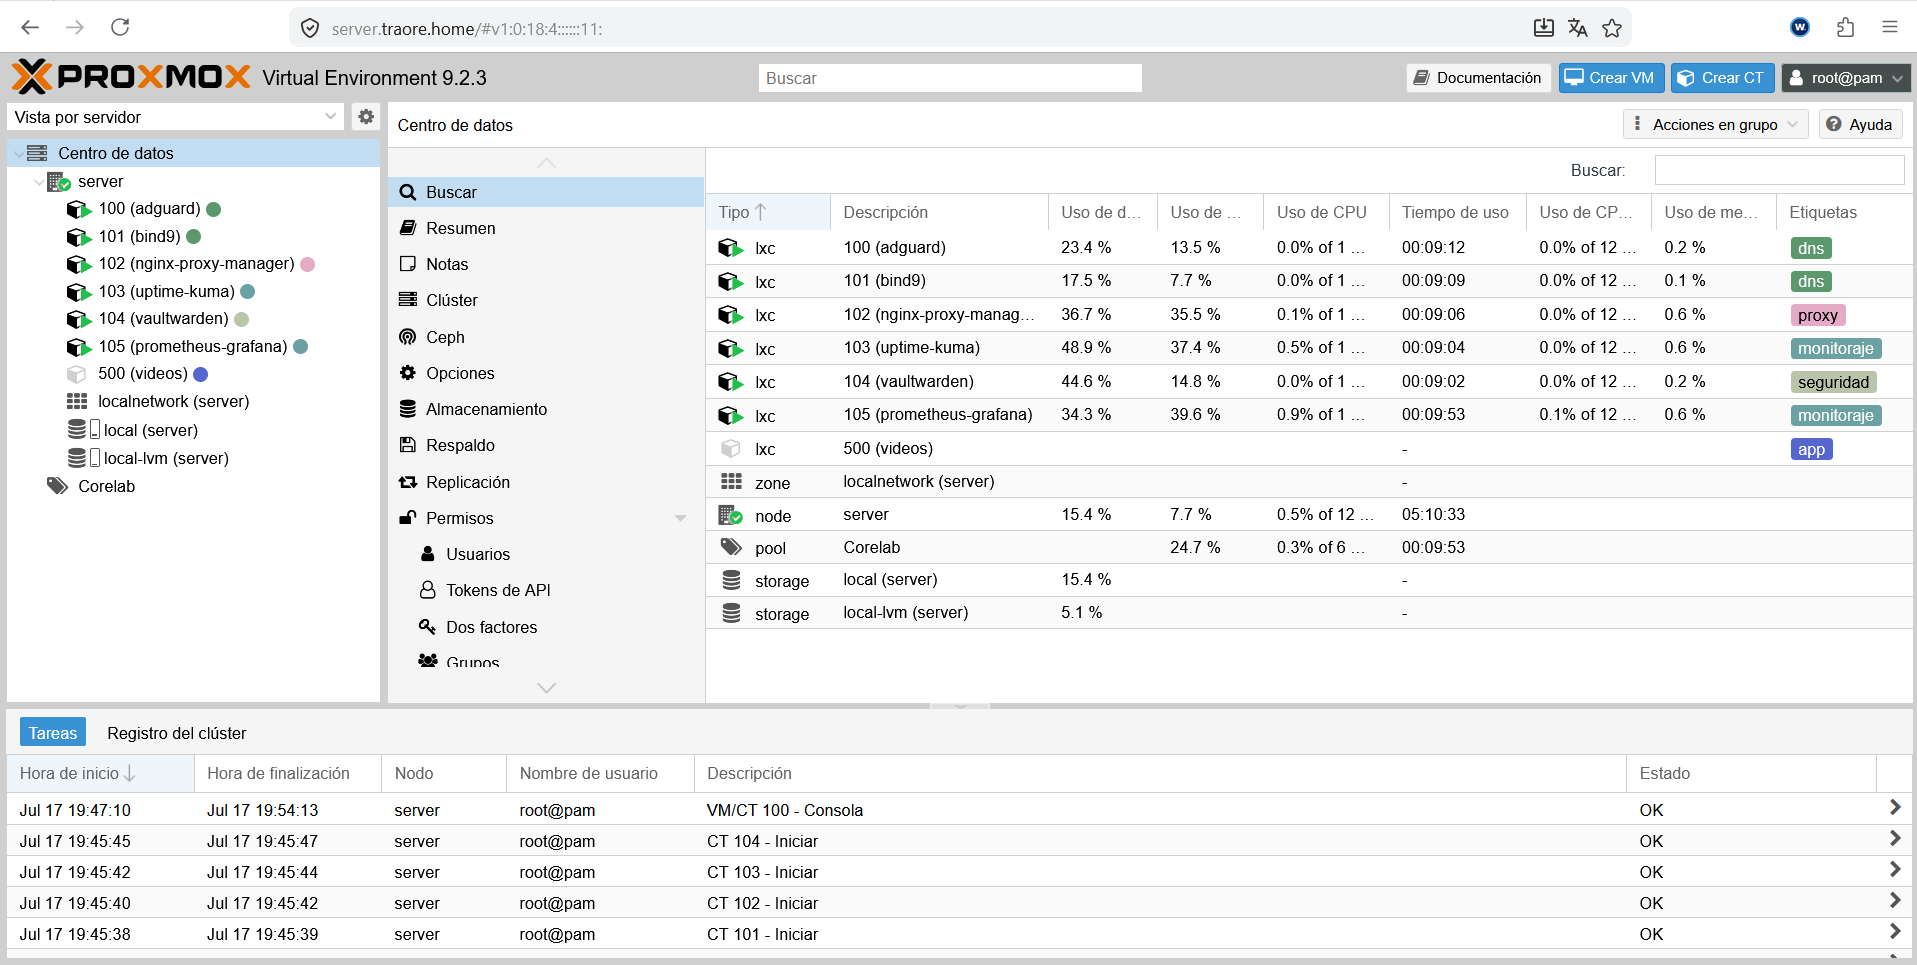
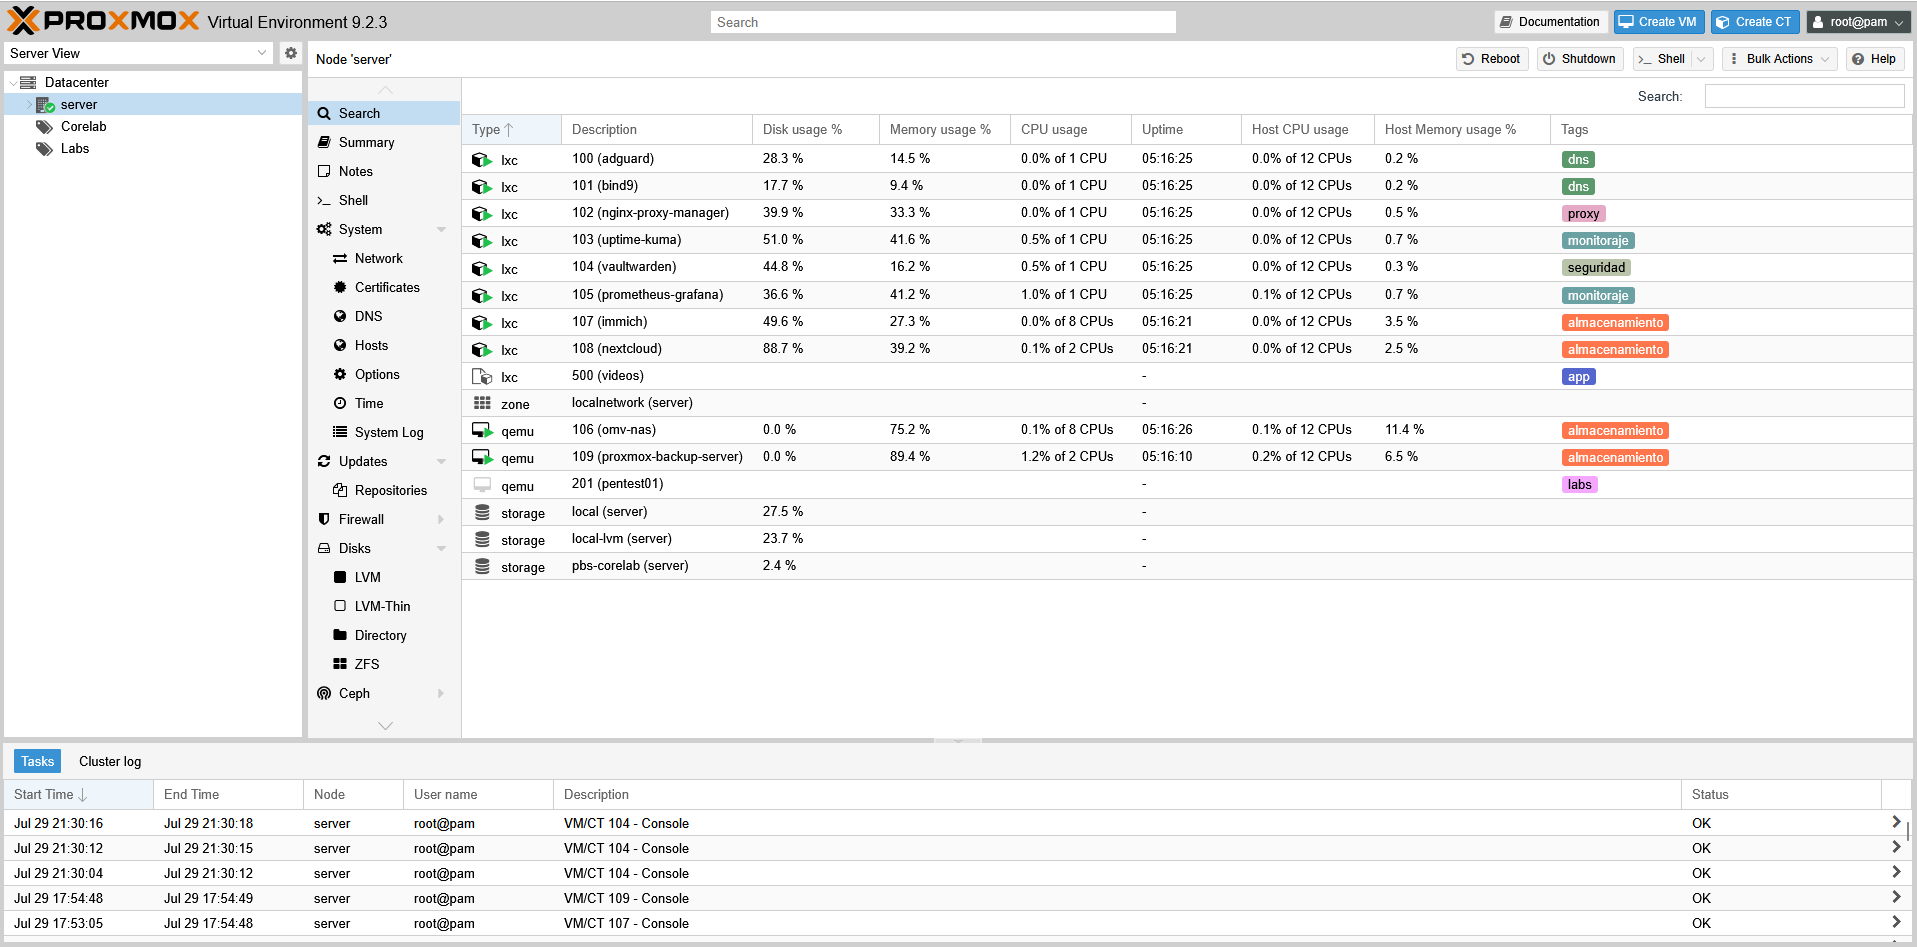
Actualización del Diagrama a la versión 2

diff --git a/README.md b/README.md
@@ -56,7 +56,7 @@ que voy tomando por el camino.
 
 ## Arquitectura
 
-![Diagrama](screenshots/network/corelab-diagram-version1.png)
+![Diagrama](screenshots/network/corelab-diagram-version2.png)
 
 Todos los servicios están detrás de un dominio interno (`traore.home`) con
 certificado wildcard autofirmado, resuelto localmente mediante AdGuard Home +

diff --git a/docs/architecture/network.md b/docs/architecture/network.md
@@ -2,7 +2,7 @@
 
 ## Diagrama
 
-![Diagrama de arquitectura de red](../../screenshots/network/corelab-diagram-version1.png)
+![Diagrama de arquitectura de red](../../screenshots/network/corelab-diagram-version2.png)
 
 ## Esquema de IPs
 
